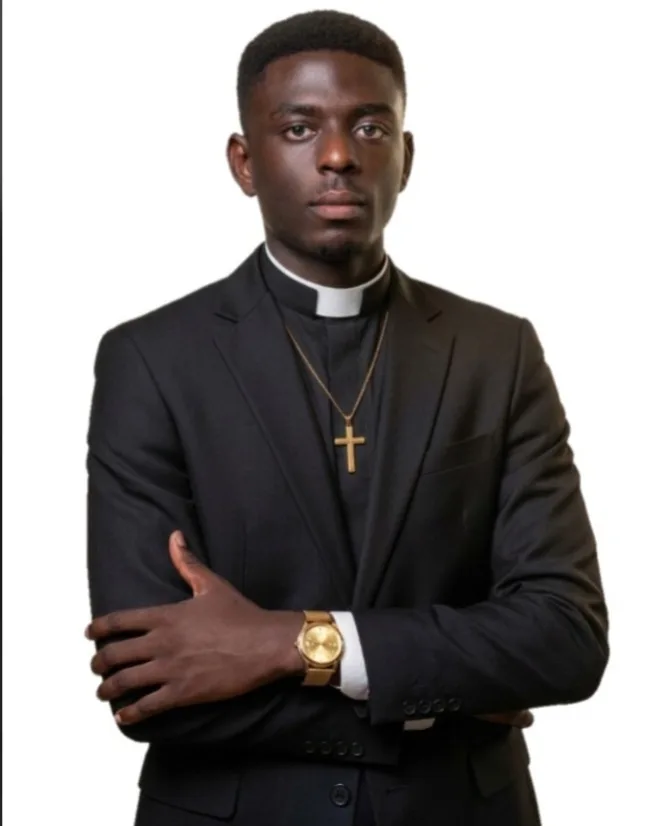
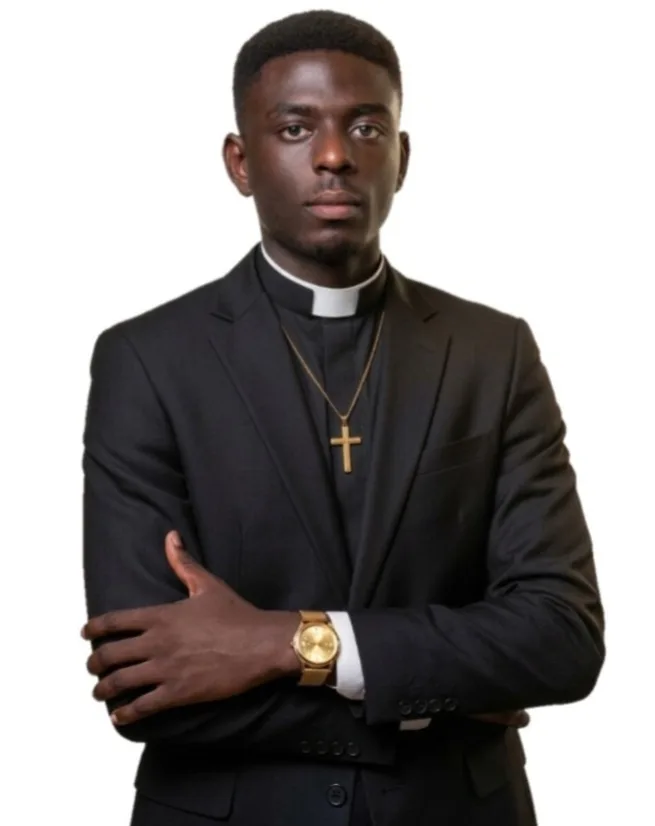
About page: shorter title; trim photo border
Claude-Session: https://claude.ai/code/session_01JehVPBXwNhLS3kxuGovkRh

diff --git a/src/app/(site)/about/page.tsx b/src/app/(site)/about/page.tsx
@@ -19,7 +19,7 @@ const SITE = (process.env.SITE_URL || "https://zivarukah.com").replace(/\/$/, ""
 export const revalidate = 60;
 
 export const metadata: Metadata = {
-  title: "About ZIVARUKAH — Meaning of the Name & Founder Shepherd Justice Sarpong Oduro",
+  title: { absolute: "What ZIVARUKAH Means · Founder Shepherd Justice Sarpong Oduro" },
   description:
     "ZIVARUKAH joins two Hebrew words: ZIVA (light of God) and ARUKAH (total restoration). Founded and led by Shepherd Justice Sarpong Oduro — minister, teacher and author in Ghana.",
   alternates: { canonical: "/about" },

diff --git a/src/config/founder.ts b/src/config/founder.ts
@@ -10,7 +10,7 @@ export const FOUNDER = {
   legalName: "Sarpong Oduro Justice",
   alternateNames: ["Sarpong Oduro Justice", "Justice Sarpong Oduro", "Shepherd Justice Sarpong"],
   title: "Founder and Leader of ZIVARUKAH and Repent Online Ministries",
-  photo: { src: "/branding/founder/shepherd-justice-sarpong-oduro.webp", width: 661, height: 826 },
+  photo: { src: "/branding/founder/shepherd-justice-sarpong-oduro.webp", width: 655, height: 826 },
   location: { locality: "Nketia", district: "Atwima Nwabiagya North", region: "Ashanti Region", country: "GH" },
 };
 
